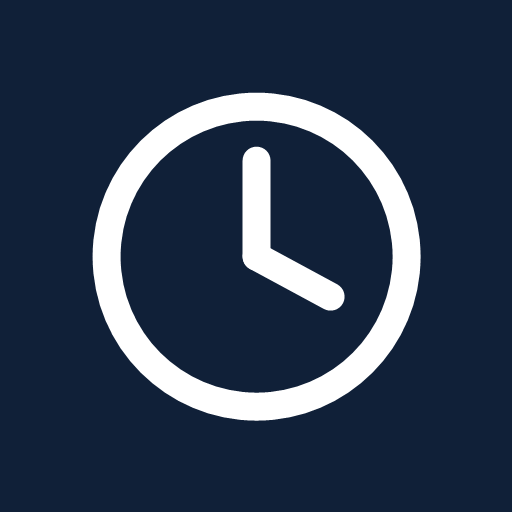
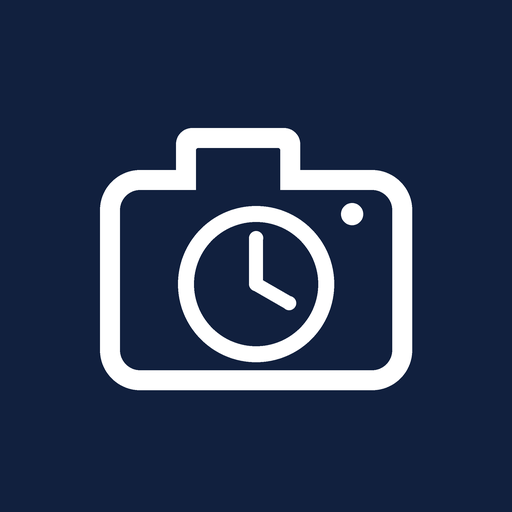
Umbenennung in LagCam, neues Symbol mit Kamera und Uhr

Changed region(s): [[0.1562, 0.1562, 0.8438, 0.8438]]

diff --git a/style.css b/style.css
@@ -53,7 +53,7 @@ button { font: inherit; color: inherit; background: none; border: 0; padding: 0;
   padding-bottom: 12px; border-bottom: 1px solid var(--line);
 }
 .mark { display: flex; align-items: center; gap: 10px; font-size: 15px; letter-spacing: 0.22em; text-transform: uppercase; color: var(--mut); }
-.mark b { color: var(--fg); font-weight: 600; margin-left: 0.35em; }
+.mark b { color: var(--fg); font-weight: 600; }
 .glyph { width: 14px; height: 14px; border: 2px solid var(--acc); border-radius: 50%; position: relative; }
 .glyph::after { content: ""; position: absolute; left: 50%; top: 1px; width: 2px; height: 5px; background: var(--acc); transform: translateX(-50%); }
 .meta { font: 12px var(--mono); color: var(--dim); letter-spacing: 0.08em; }

diff --git a/index.html b/index.html
@@ -4,7 +4,7 @@
 <meta charset="utf-8">
 <meta name="viewport" content="width=device-width, initial-scale=1, viewport-fit=cover">
 <meta name="theme-color" content="#0b0d0f">
-<title>Lag Time</title>
+<title>LagCam</title>
 <link rel="manifest" href="manifest.webmanifest">
 <link rel="icon" href="icon-192.png">
 <link rel="stylesheet" href="style.css">
@@ -13,7 +13,7 @@
 
 <div id="settings" class="hidden">
   <header class="bar">
-    <div class="mark"><span class="glyph"></span>Lag<b>Time</b></div>
+    <div class="mark"><span class="glyph"></span>Lag<b>Cam</b></div>
     <div class="meta" id="version"></div>
   </header>
 

diff --git a/sw.js b/sw.js
@@ -1,5 +1,5 @@
 // Bei jeder neuen Version VERSION erhöhen. Die neue Version wird beim nächsten App-Start übernommen.
-const VERSION = 'turm-delay-v15';
+const VERSION = 'turm-delay-v16';
 const FILES = ['./', 'index.html', 'app.js', 'style.css', 'manifest.webmanifest', 'icon-192.png', 'icon-512.png'];
 
 self.addEventListener('install', e => {

diff --git a/app.js b/app.js
@@ -1,6 +1,6 @@
 'use strict';
 
-const APP_VERSION = '15';
+const APP_VERSION = '16';
 const STORE_KEY = 'turmdelay.settings.v1';
 const KEY_INTERVAL_MS = 1000;      // Keyframe etwa jede Sekunde
 const LOOKAHEAD_MS = 150;          // so früh wird vor der Anzeige dekodiert

diff --git a/icon.py b/icon.py
@@ -1,0 +1,29 @@
+import math, sys
+from PIL import Image, ImageDraw
+BG=(17,32,62); FG=(255,255,255)
+S=4; N=512*S
+def k(v): return int(round(v*S))
+img=Image.new('RGB',(N,N),BG); d=ImageDraw.Draw(img)
+sw=20  # Strichstärke
+# Kameragehäuse und Sucherhöcker, zuerst weiß gefüllt, dann innen ausgespart
+bx0,by0,bx1,by1=100,170,412,390; br=40
+hx0,hy0,hx1,hy1=176,128,300,180; hr=16
+d.rounded_rectangle([k(bx0),k(by0),k(bx1),k(by1)],k(br),fill=FG)
+d.rounded_rectangle([k(hx0),k(hy0),k(hx1),k(hy1+30)],k(hr),fill=FG)
+d.rounded_rectangle([k(bx0+sw),k(by0+sw),k(bx1-sw),k(by1-sw)],k(br-sw),fill=BG)
+d.rounded_rectangle([k(hx0+sw),k(hy0+sw),k(hx1-sw),k(by0+sw+10)],k(max(hr-sw,2)),fill=BG)
+# Blitz als Punkt oben rechts
+d.ellipse([k(352-11),k(214-11),k(352+11),k(214+11)],fill=FG)
+# Uhr als Objektiv
+cx,cy=256,284; R=78; cs=16
+d.ellipse([k(cx-R),k(cy-R),k(cx+R),k(cy+R)],fill=FG)
+d.ellipse([k(cx-R+cs),k(cy-R+cs),k(cx+R-cs),k(cy+R-cs)],fill=BG)
+def hand(x2,y2,w):
+    d.line([k(cx),k(cy),k(x2),k(y2)],fill=FG,width=k(w))
+    for x,y in((cx,cy),(x2,y2)):
+        d.ellipse([k(x-w/2),k(y-w/2),k(x+w/2),k(y+w/2)],fill=FG)
+hand(cx,cy-46,14)
+a=math.radians(30); hand(cx+38*math.cos(a),cy+38*math.sin(a),14)
+out=sys.argv[1]
+for size in (512,192):
+    img.resize((size,size),Image.LANCZOS).save(f'{out}/icon-{size}.png',optimize=True)

diff --git a/UEBERGABE.md b/UEBERGABE.md
@@ -1,12 +1,12 @@
-# Übergabe Lag Time
+# Übergabe LagCam
 
-Stand 30.09.2026, Version 15, lokal committet.
+Stand 30.09.2026, Version 16, lokal committet.
 
 Diese Datei dient als Einstieg in einen neuen Chat. Lies zuerst diese Datei und danach `PLAN.md`. `PLAN.md` enthält die vollständige, abgestimmte Planung, die Testergebnisse des Tablets und die Regeln für die Kommunikation mit dem Nutzer.
 
 ## Kurzfassung
 
-Lag Time ist eine Progressive Web App für das Training im Turmspringen. Ein Samsung Galaxy Tab Active Pro (SM-T545, Android 11, Chrome 154) filmt den Sprung. Die App zeigt das Bild mit einstellbarer Verzögerung. Die Ausgabe geht per USB-C auf HDMI an einen 22-Zoll-Fernseher. Der Springer sieht seinen Sprung, nachdem er aus dem Becken gestiegen ist.
+LagCam ist eine Progressive Web App für das Training im Turmspringen. Ein Samsung Galaxy Tab Active Pro (SM-T545, Android 11, Chrome 154) filmt den Sprung. Die App zeigt das Bild mit einstellbarer Verzögerung. Die Ausgabe geht per USB-C auf HDMI an einen 22-Zoll-Fernseher. Der Springer sieht seinen Sprung, nachdem er aus dem Becken gestiegen ist.
 
 ## Zusammenarbeit
 
@@ -32,7 +32,8 @@ Lag Time ist eine Progressive Web App für das Training im Turmspringen. Ein Sam
 | `app.js` | Gesamte Logik mit Kamera, Kodierung, Puffer, Wiedergabe, Überwachung und Oberfläche |
 | `sw.js` | Service Worker für den Offline-Betrieb und für Updates |
 | `manifest.webmanifest` | Installation als App, Vollbild, Querformat |
-| `icon-192.png`, `icon-512.png` | Symbol, weiße Uhr auf dunkelblauem Grund |
+| `icon-192.png`, `icon-512.png` | Symbol, weiße Kamera mit einer Uhr als Objektiv auf dunkelblauem Grund |
+| `icon.py` | Erzeugt beide Symbole, Aufruf `python icon.py .` im Projektordner, braucht Pillow |
 | `test.html` | Testseite für die Fähigkeiten des Tablets |
 | `PLAN.md` | Vollständige Planung und Testergebnisse |
 | `.claude/launch.json` | Lokaler Vorschau-Server mit `python -m http.server 8765` |
@@ -45,6 +46,8 @@ Lag Time ist eine Progressive Web App für das Training im Turmspringen. Ein Sam
 4. Auf dem Tablet die App einmal öffnen. Die neue Version wird dabei im Hintergrund geladen. Beim nächsten Öffnen ist sie aktiv. Die Versionsnummer steht oben rechts im Einstellungsbildschirm.
 
 ## Aktueller Funktionsumfang
+
+- Der Name ist „LagCam“ ohne Leerzeichen. In der App steht er in Großbuchstaben als LAGCAM.
 
 - Beim Öffnen erscheint immer der Einstellungsbildschirm.
 - Die Vorschau ist gestaltet wie ein Kamerasucher, mit Eckmarken und Drittellinien. Unten stehen Auflösung, Belichtung, Fokus und die gemessene neben der eingestellten Bildrate.
@@ -72,9 +75,9 @@ Lag Time ist eine Progressive Web App für das Training im Turmspringen. Ein Sam
 
 ## Offen und als Nächstes
 
-- Version 15 muss noch hochgeladen und auf dem Tablet geprüft werden.
+- Version 16 muss noch hochgeladen und auf dem Tablet geprüft werden.
 - Test in der Halle: Werden 30 Bilder pro Sekunde erreicht? Welche Belichtung passt? Gibt es Streifen durch das Hallenlicht?
 - Prüfen, ob die Vorschau im Einstellungsbildschirm auf dem Tablet flüssig läuft. Der Nutzer hatte ein Hängen gemeldet. Das betraf wahrscheinlich die Vorschau im Claude-Desktop. Die möglichen Ursachen auf dem Tablet wurden in Version 12 behoben.
 - Test über 3 Stunden, mit Blick auf Wärme und Stabilität. Falls das Tablet überhitzt, wieder 720p als Rückfall einbauen.
 - Die Checkliste für das Tablet aus `PLAN.md` an den Nutzer übergeben. Sie betrifft „Nicht stören“, die Akkuoptimierung, die Helligkeit, das Ladekabel und die Wärme.
-- Alte Symbole wie „Cam Delay“ oder „Turm Delay“ auf dem Tablet entfernen und die App neu als „Lag Time“ installieren.
+- Alte Symbole wie „Cam Delay“, „Turm Delay“, „Cam Time“ oder „Lag Time“ auf dem Tablet entfernen und die App neu als „LagCam“ installieren.

diff --git a/PLAN.md b/PLAN.md
@@ -1,4 +1,4 @@
-# Lag Time, verzögerte Videowiedergabe für Turmspringen
+# LagCam, verzögerte Videowiedergabe für Turmspringen
 
 Diese Datei fasst die gesamte Planung zusammen. Alle hier aufgeführten Entscheidungen sind mit dem Nutzer abgestimmt. Offene Punkte stehen gesondert am Ende.
 
